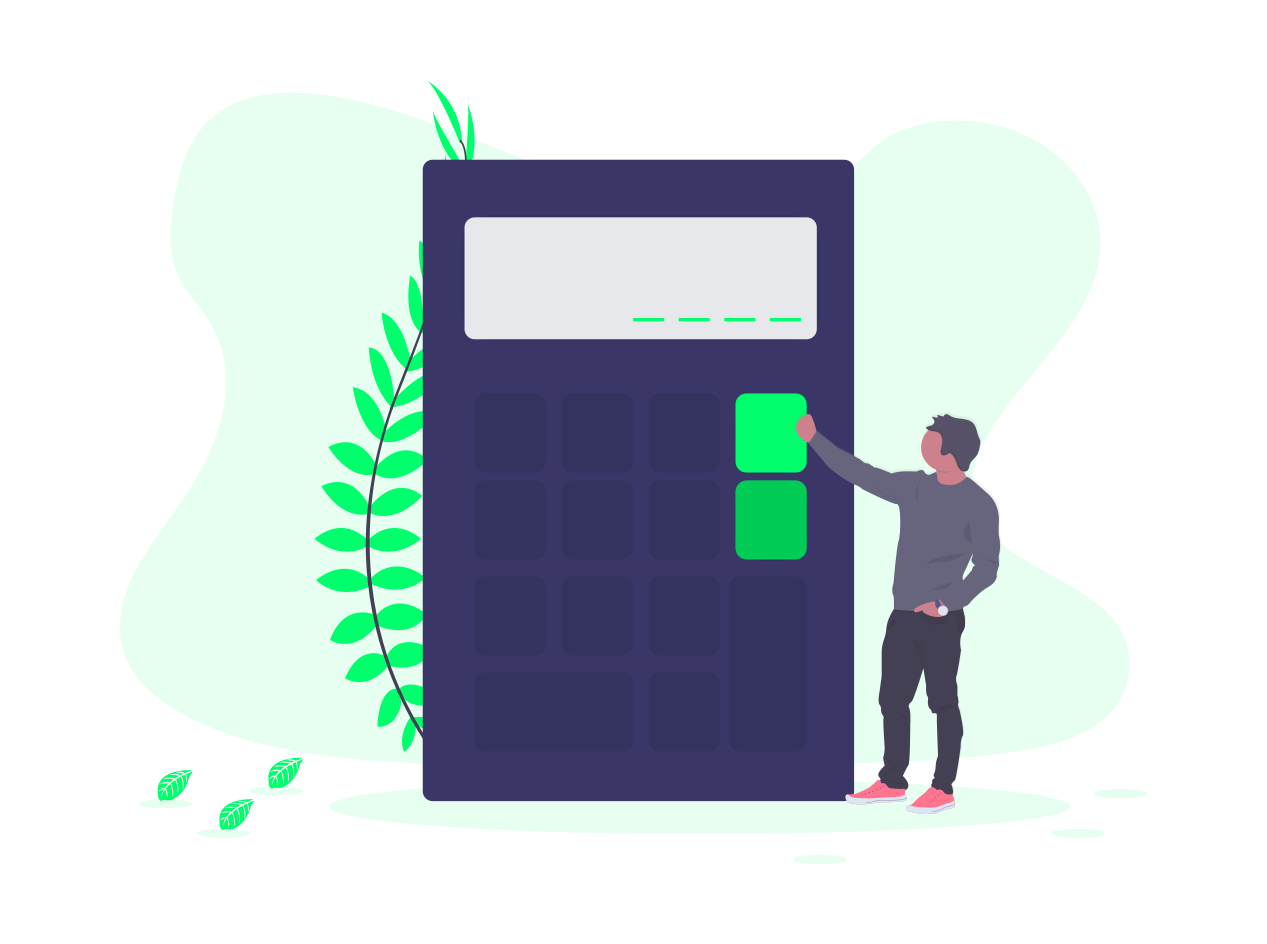
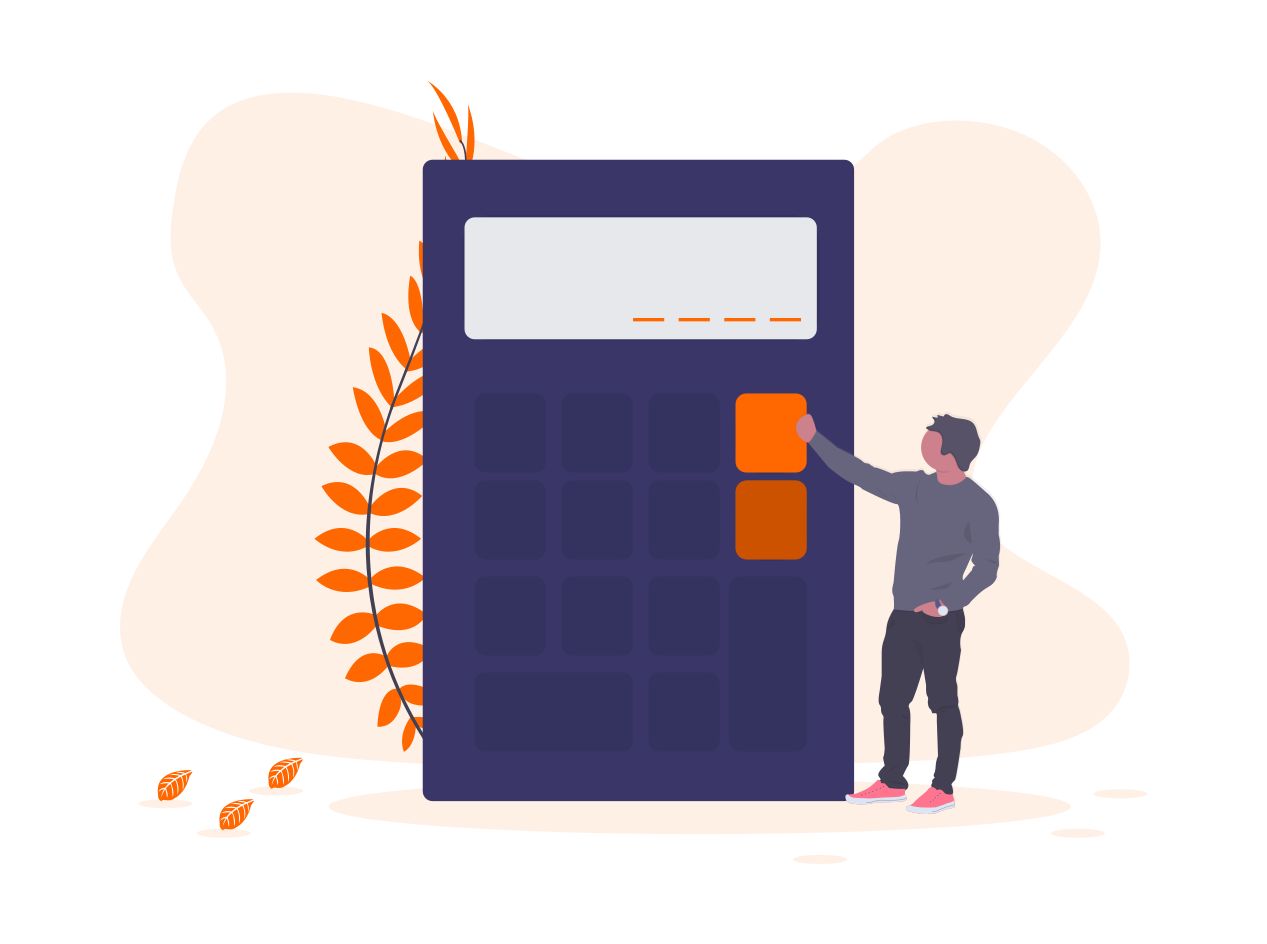
ui changed with keyboard functionality
full color changed...click animation added
keyboard functionality added

Changed region(s): [[0.0923, 0.0922, 0.8927, 0.9216], [0.5541, 0.3994, 0.6464, 0.6144], [0.1231, 0.7987, 0.1539, 0.8602]]

diff --git a/style/style.css b/style/style.css
@@ -1,10 +1,11 @@
 @import url('https://fonts.googleapis.com/css2?family=Poppins:wght@500&family=Charm&display=swap');
 
 :root{
-    --body-background: linear-gradient(to right bottom, #00AAFF, #00FF6C);
-    --display-background: linear-gradient(to left bottom, #00342f, #007951);
-    --button-color: #bffae3;
-    --button-hover: #b9f5de;
+    --body-background: black;
+    --display-background: black;
+    --input-button-color: #444444;
+    --input-button-hover-color: #4d4d4d;
+    --number-button-color: #333333;
     --button-font: 'Poppins', sans-serif;
 }
 @font-face {
@@ -28,37 +29,20 @@ body{
     justify-content: center;
     align-items: center;
     padding: 1rem;
+    border: 5px dashed rgba(255, 255, 255, 0.2)
 }
 .calculator{
     min-width: 15rem;
     max-width: 35rem;
 }
 .input-area{
-    position: relative;
     background: var(--display-background);
     padding: 0.5rem 0.5rem 1rem;
-    border-top-right-radius: 10px;
-    z-index: 1;
-}
-.input-area::before{
-    content: '';
-    position: absolute;
-    top: 0;
-    left: 0;
-    width: 100%;
-    height: 100%;
-    z-index: -1;
-    background: linear-gradient(to left bottom, #007951, #00342f);
-    opacity: 0;
-    animation: displayAni 5s ease-in-out infinite;
-}
-@keyframes displayAni {
-    50%{opacity: 1;}
 }
 
 #topDisplay{
     background: transparent;
-    color: #bffae3;
+    color: rgba(255, 255, 255, 0.6);
     width: 100%;
     text-align: right;
     font-size: 1.7rem;
@@ -81,27 +65,44 @@ body{
     width: 100%;
     height: 65vh;
     min-height: 15rem;
-    background: white;
+    background: black;
     padding: 2px;
     display: grid;
     grid-template-columns: repeat(4, 1fr);
-    border-bottom-left-radius: 10px;
+    grid-gap: 1.5vh;
 }
 .input-button{
+    color: white;
     text-align: center;
     font-size: 1.5rem;
     font-family: var(--button-font);
-    background: var(--button-color);
+    background: var(--input-button-color);
+    position: relative;
     display: inline-flex;
     justify-content: center;
     align-items: center;
     cursor: pointer;
-    border: 1px solid white;
-    border-radius: 5px;
+    border-radius: 40px;
     user-select: none;
 }
 .input-button:hover{
-    background: var(--button-hover);
+    background: var(--input-button-hover-color);
+}
+.input-button.clicked{
+    animation: clickAnimation 200ms ease-out;
+}
+@keyframes clickAnimation {
+    35%{transform: scale(0.8);}
+    70%{transform: scale(1.1);}
+}
+.numberButton{
+    background: var(--number-button-color);
+}
+.operationBut{
+    background: rgb(255, 102, 0);
+}
+.operationBut:hover{
+    background: rgb(255, 81, 0);
 }
 #squareBut, #sqrtBut, #oneDivided{
     font-family: 'Charm', serif;
@@ -122,12 +123,12 @@ sub{
     position: relative;
     top: 20%;
     color: whitesmoke;
-    background: linear-gradient(to right, red, blue);
+    background: linear-gradient(to right, rgb(0, 255, 128), rgb(0, 183, 255));
     background-position-x: 0;
     background-clip: text;
     -webkit-background-clip: text;
     -webkit-text-fill-color: transparent;
-    text-shadow: 0 0 10px gray;
+    text-shadow: 0 0 10px rgba(255, 255, 255, 0.7);
     animation: signatureAni 5s infinite;
 }
 @keyframes signatureAni {

diff --git a/script/script.js b/script/script.js
@@ -1,6 +1,6 @@
 const screen = document.getElementById('display');
 const topScreen = document.getElementById('topDisplay');
-const buttonValue = document.querySelectorAll('.input-button')
+const inputButtons = document.querySelectorAll('.input-button');
 const numBut = document.querySelectorAll('.numberButton');
 const operationBut = document.querySelectorAll('.operationBut');
 const squareBut = document.querySelector('#squareBut');
@@ -12,6 +12,18 @@ const equalBut = document.querySelector('#equalBut');
 const acBut = document.querySelector('#ac');
 const delBut = document.querySelector('#del');
 const dotBut = document.getElementById('dot');
+
+// add button animation on click
+inputButtons.forEach(element => {
+    element.addEventListener('click', () => {
+        element.classList.add('clicked');
+
+        setTimeout(() => {
+            element.classList.remove('clicked');
+        }, 600)
+    })
+})
+
 
 window.addEventListener('load', acFunc);
 
@@ -241,3 +253,36 @@ function removeAns(event) {
     })
     dotBut.removeEventListener('click', removeAns);
 }
+
+
+
+
+
+// add keyboard functionality
+document.addEventListener('keydown', event => {
+    console.log(event);
+    event.preventDefault();
+    if (event.key == "Enter") { equalFunc() }
+    else if (event.key == "Delete") { delBut.click() }
+    else if (event.key == "Backspace") { acFunc() }
+    else {
+        inputButtons.forEach(element => {
+            if (element.innerHTML == event.key) {
+                element.click();
+            } else if (event.key == "-") {
+                operationBut.forEach(element => {
+                    if (element.innerHTML == '−') { element.click() }
+                })
+            } else if (event.key == "*") {
+                operationBut.forEach(element => {
+                    if (element.innerHTML == '×') { element.click() }
+                })
+            } else if (event.key == "/") {
+                event.preventDefault();
+                operationBut.forEach(element => {
+                    if (element.innerHTML == '÷') { element.click() }
+                })
+            }
+        })
+    }
+})

diff --git a/index.html b/index.html
@@ -1,5 +1,6 @@
 <!DOCTYPE html>
 <html lang="en">
+
 <head>
     <meta charset="UTF-8">
     <meta http-equiv="X-UA-Compatible" content="IE=edge">
@@ -7,9 +8,11 @@
     <title>Calculator v1</title>
 
     <link rel="stylesheet" href="style/style.css">
-    
-    <link rel="shortcut icon" href="https://by3302files.storage.live.com/y4mjnK4C3r2VUbvAWqzqgIhEfkYN2Vyefof9KyCeiblTUKB5NhegWlA6KC0b0lFaBtLaB8CzN7zHUtIQDXEVpoVbyvmOyXKI8LLzoCM2brcYKxWztH_GGImAR3uuQRrJcCgQPLbg1cMehP5AlnRUBHfV0vmq52iK3t4xZWmbeTUGFN2w57jemZwI0BAwxhZodls?width=70&height=70&cropmode=none" type="image/x-icon">
-    
+
+    <link rel="shortcut icon"
+        href="https://by3302files.storage.live.com/y4mjnK4C3r2VUbvAWqzqgIhEfkYN2Vyefof9KyCeiblTUKB5NhegWlA6KC0b0lFaBtLaB8CzN7zHUtIQDXEVpoVbyvmOyXKI8LLzoCM2brcYKxWztH_GGImAR3uuQRrJcCgQPLbg1cMehP5AlnRUBHfV0vmq52iK3t4xZWmbeTUGFN2w57jemZwI0BAwxhZodls?width=70&height=70&cropmode=none"
+        type="image/x-icon">
+
     <script src="script/script.js" defer></script>
 
 
@@ -33,6 +36,7 @@
     <meta property="twitter:description" content="A standard calculator made by SR TAMIM">
     <meta property="twitter:image" content="https://tamim9.github.io/my-calc-v1/img/meta-image.png">
 </head>
+
 <body>
     <div class="container">
         <div class="calculator">
@@ -63,10 +67,11 @@
                 <span class="operationBut input-button">+</span>
                 <span class="numberButton input-button">0</span>
                 <span id="dot" class="input-button">.</span>
-                <span id="equalBut" class="input-button" style="grid-column:span 2">=</span>
+                <span id="equalBut" class="input-button" style="grid-column:span 2;">=</span>
             </div>
         </div>
         <h3 class="signature">Calculator made by SR TAMIM</h3>
     </div>
 </body>
+
 </html>
